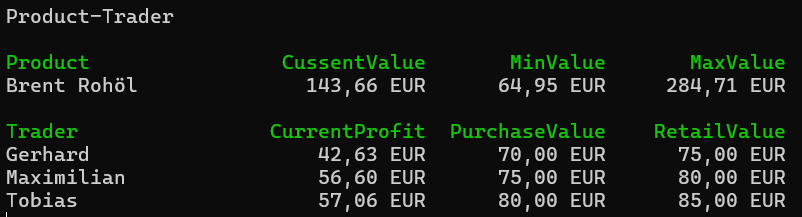
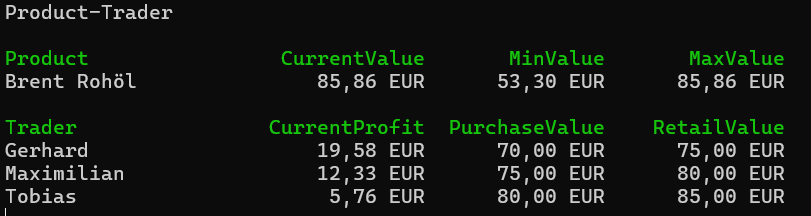
Changed image.

diff --git a/README.md b/README.md
@@ -186,7 +186,7 @@ static void PrintProduct(object sender, EventArgs e)
         ConsoleColor saveColor = Console.ForegroundColor;
 
         Console.ForegroundColor = ConsoleColor.Green;
-        Console.WriteLine($"{"Product",-20} {"CussentValue",14} {"MinValue",14} {"MaxValue",14}");
+        Console.WriteLine($"{"Product",-20} {"CurrentValue",14} {"MinValue",14} {"MaxValue",14}");
         Console.ForegroundColor = saveColor;
         Console.WriteLine($"{product.Name,-20} {product.Value,10:f} EUR {product.MinValue,10:f} EUR {product.MaxValue,10:f} EUR");
         Console.WriteLine();
